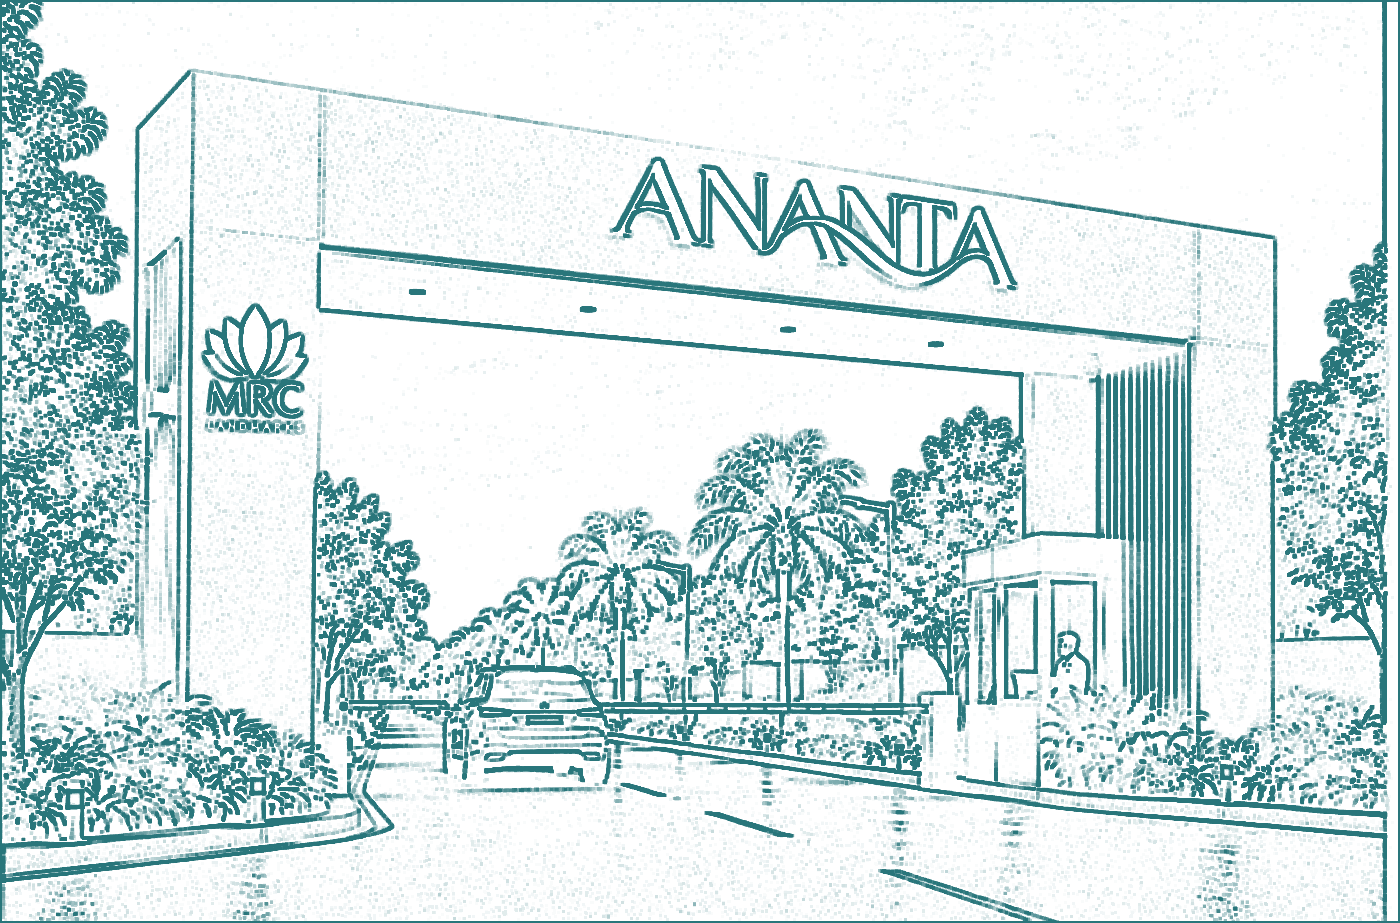
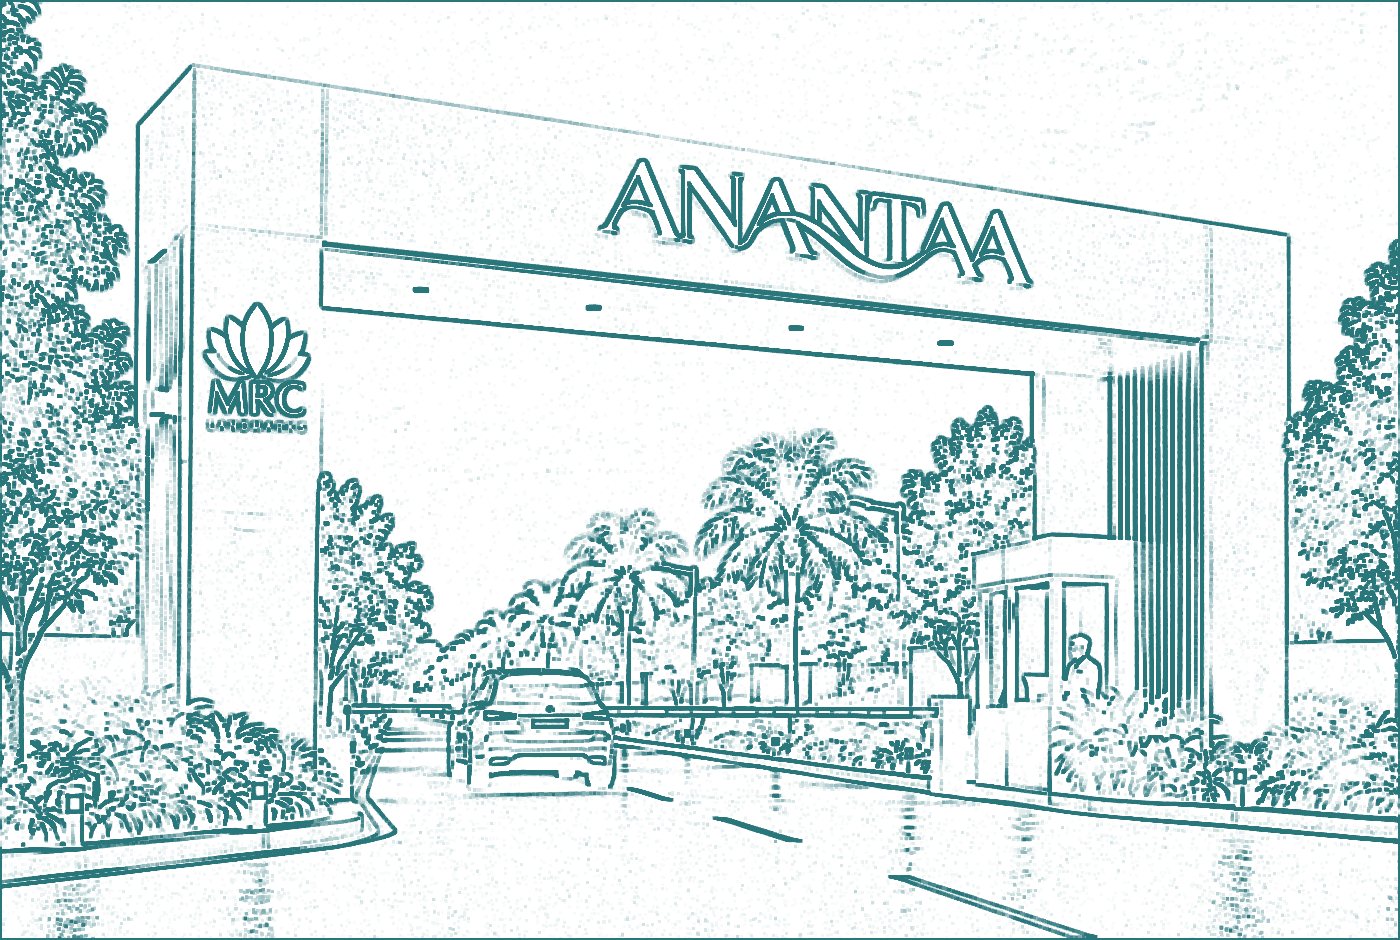
Launch section: gate render regenerated with the correct ANANTAA sign, real wordmark as title, frames span the page, label removed

diff --git a/mrc.css b/mrc.css
@@ -312,8 +312,7 @@ footer.site .about { font-size: .93rem; max-width: 42ch; margin-top: 1.2rem; }
   .hero-stage .dust, .hero-stage .rocks { display: none; }
   .pic.reveal { clip-path: none !important; }
   .rule.reveal { transform: none !important; }
-  .launch-stage .frame-inner, .launch-stage .gate-title span, .launch-stage .gate-tag, .launch-stage .gate-cta, .launch-stage .impression { opacity: 1 !important; transform: none !important; }
-  .launch-stage .gate-photo { clip-path: none !important; }
+  .launch-stage .frame-inner, .launch-stage .gate-title, .launch-stage .gate-tag, .launch-stage .gate-cta,   .launch-stage .gate-photo { clip-path: none !important; }
   .launch-stage .gate-lines { display: none; }
   html { scroll-behavior: auto; }
 }
@@ -456,38 +455,35 @@ footer.site .about { font-size: .93rem; max-width: 42ch; margin-top: 1.2rem; }
 .hero-trust-dot { width: 6px; height: 6px; border-radius: 50%; background: var(--teal-mid); display: inline-block; margin-right: .5rem; }
 
 /* ---- launch stage: nested frames, the gate builds itself ---- */
+.launch-stage > .wrap { max-width: none; padding-inline: clamp(.75rem, 1.5vw, 1.5rem); }
 .launch-stage .frame-outer {
-  background: var(--teal-deep); border-radius: calc(var(--r) + 10px); padding: clamp(.8rem, 2vw, 1.4rem);
+  background: var(--teal-deep); border-radius: calc(var(--r) + 10px); padding: clamp(.9rem, 2.2vw, 1.8rem);
   box-shadow: 0 30px 80px rgba(18,71,76,.28);
 }
 .launch-stage .frame-inner {
-  background: var(--bg); border-radius: var(--r); padding: clamp(1.4rem, 3.5vw, 3rem);
+  background: var(--bg); border-radius: var(--r); padding: clamp(1.2rem, 2.5vw, 2.4rem);
   display: flex; flex-direction: column; align-items: center; text-align: center;
   opacity: 0; transform: translateY(18px);
 }
-.launch-stage .gate { position: relative; width: 100%; max-width: 760px; aspect-ratio: 1537 / 1013; border-radius: var(--r-sm); overflow: hidden; background: var(--bg); }
+.launch-stage .gate { position: relative; width: 100%; max-width: 1240px; aspect-ratio: 3 / 2; border-radius: var(--r-sm); overflow: hidden; background: var(--bg); }
 .launch-stage .gate img { position: absolute; inset: 0; width: 100%; height: 100%; object-fit: cover; }
 .launch-stage .gate-lines { opacity: 0; }
 .launch-stage .gate-photo { clip-path: inset(100% 0 0 0); }
-.launch-stage .impression { position: absolute; right: .8rem; bottom: .8rem; top: auto; left: auto; font-size: .62rem; letter-spacing: .16em; text-transform: uppercase; color: rgba(255,255,255,.85); background: rgba(26,42,45,.55); padding: .35rem .7rem; border-radius: 999px; opacity: 0; }
-.launch-stage .gate-title { margin-top: 2rem; font-family: 'Cinzel', 'Instrument Sans', serif; font-weight: 600; font-size: clamp(2.4rem, 6vw, 4.4rem); letter-spacing: .14em; color: var(--teal-deep); line-height: 1; padding-left: .14em; display: flex; }
-.launch-stage .gate-title span { display: inline-block; opacity: 0; transform: translateY(.5em); }
+.launch-stage .gate-title { margin-top: 2.2rem; width: min(70%, 520px); height: auto; opacity: 0; transform: translateY(14px); }
 .launch-stage .gate-tag { margin-top: .9rem; font-size: .78rem; letter-spacing: .3em; text-transform: uppercase; color: var(--teal); font-weight: 600; opacity: 0; }
 .launch-stage .gate-cta { margin-top: 2rem; opacity: 0; transform: translateY(12px); }
 /* sequence: frames -> blueprint -> the render rises from the ground -> lights on -> name -> button */
 html.js .launch-stage .reveal.in .frame-inner { animation: riseIn .9s var(--ease) .35s forwards; }
 html.js .launch-stage .reveal.in .gate-lines { animation: fadeIn .8s ease .9s forwards; }
 html.js .launch-stage .reveal.in .gate-photo { animation: build 2s cubic-bezier(.6, 0, .2, 1) 1.5s forwards, lightsOn 1.2s ease 3.5s; }
-html.js .launch-stage .reveal.in .impression { animation: fadeIn .6s ease 3.6s forwards; }
-html.js .launch-stage .reveal.in .gate-title span { animation: riseIn .6s var(--ease) calc(3.4s + var(--i) * .08s) forwards; }
+html.js .launch-stage .reveal.in .gate-title { animation: riseIn .9s var(--ease) 3.4s forwards; }
 html.js .launch-stage .reveal.in .gate-tag { animation: fadeIn .8s ease 4.1s forwards; }
 html.js .launch-stage .reveal.in .gate-cta { animation: riseIn .7s var(--ease) 4.3s forwards; }
 @keyframes fadeIn { to { opacity: 1; } }
 @keyframes build { to { clip-path: inset(0 0 0 0); } }
 @keyframes lightsOn { 0%,100% { filter: brightness(1); } 40% { filter: brightness(1.22) saturate(1.15); } }
 /* without JS or with reduced motion: everything in its finished state */
-html:not(.js) .launch-stage .frame-inner, html:not(.js) .launch-stage .gate-title span, html:not(.js) .launch-stage .gate-tag, html:not(.js) .launch-stage .gate-cta, html:not(.js) .launch-stage .impression { opacity: 1; transform: none; }
-html:not(.js) .launch-stage .gate-photo { clip-path: none; }
+html:not(.js) .launch-stage .frame-inner, html:not(.js) .launch-stage .gate-title, html:not(.js) .launch-stage .gate-tag, html:not(.js) .launch-stage .gate-cta, html:not(.js) html:not(.js) .launch-stage .gate-photo { clip-path: none; }
 
 /* ---- floating WhatsApp ---- */
 .fab {

diff --git a/index.html b/index.html
@@ -11,7 +11,7 @@
 <link rel="apple-touch-icon" href="MRC LOGO LOTUS25 copy.pdf.png">
 <link rel="preconnect" href="https://fonts.googleapis.com">
 <link rel="preconnect" href="https://fonts.gstatic.com" crossorigin>
-<link rel="stylesheet" href="https://fonts.googleapis.com/css2?family=Instrument+Sans:wght@400;500;600;700&family=Inter:wght@400;500;600&family=Cinzel:wght@600&display=swap">
+<link rel="stylesheet" href="https://fonts.googleapis.com/css2?family=Instrument+Sans:wght@400;500;600;700&family=Inter:wght@400;500;600&display=swap">
 <link rel="stylesheet" href="mrc.css">
 <link rel="stylesheet" href="https://cdnjs.cloudflare.com/ajax/libs/leaflet/1.9.4/leaflet.min.css">
 </head>
@@ -82,11 +82,10 @@
       <div class="frame-outer reveal">
         <div class="frame-inner">
           <div class="gate">
-            <img class="gate-lines" src="anantaa-gate-lines.png" alt="" width="1400" height="923">
-            <img class="gate-photo" src="anantaa-gate.jpg" alt="ANANTAA entrance" width="1537" height="1013">
-            <span class="impression">Artist&rsquo;s impression</span>
+            <img class="gate-lines" src="anantaa-gate-lines.png" alt="" width="1400" height="940">
+            <img class="gate-photo" src="anantaa-gate.jpg" alt="ANANTAA entrance" width="1800" height="1208">
           </div>
-          <div class="gate-title" aria-label="ANANTAA"><span style="--i:0">A</span><span style="--i:1">N</span><span style="--i:2">A</span><span style="--i:3">N</span><span style="--i:4">T</span><span style="--i:5">A</span><span style="--i:6">A</span></div>
+          <img class="gate-title" src="anantaa-wordmark.png" alt="ANANTAA" width="1088" height="210">
           <div class="gate-tag">A Life Without Limits</div>
           <a class="btn btn-ink gate-cta" href="project-anantaa.html">Explore ANANTAA &rarr;</a>
         </div>

diff --git a/404.html b/404.html
@@ -11,7 +11,7 @@
 <link rel="apple-touch-icon" href="MRC LOGO LOTUS25 copy.pdf.png">
 <link rel="preconnect" href="https://fonts.googleapis.com">
 <link rel="preconnect" href="https://fonts.gstatic.com" crossorigin>
-<link rel="stylesheet" href="https://fonts.googleapis.com/css2?family=Instrument+Sans:wght@400;500;600;700&family=Inter:wght@400;500;600&family=Cinzel:wght@600&display=swap">
+<link rel="stylesheet" href="https://fonts.googleapis.com/css2?family=Instrument+Sans:wght@400;500;600;700&family=Inter:wght@400;500;600&display=swap">
 <link rel="stylesheet" href="mrc.css">
 </head>
 <body>

diff --git a/about.html b/about.html
@@ -11,7 +11,7 @@
 <link rel="apple-touch-icon" href="MRC LOGO LOTUS25 copy.pdf.png">
 <link rel="preconnect" href="https://fonts.googleapis.com">
 <link rel="preconnect" href="https://fonts.gstatic.com" crossorigin>
-<link rel="stylesheet" href="https://fonts.googleapis.com/css2?family=Instrument+Sans:wght@400;500;600;700&family=Inter:wght@400;500;600&family=Cinzel:wght@600&display=swap">
+<link rel="stylesheet" href="https://fonts.googleapis.com/css2?family=Instrument+Sans:wght@400;500;600;700&family=Inter:wght@400;500;600&display=swap">
 <link rel="stylesheet" href="mrc.css">
 </head>
 <body>

diff --git a/approach.html b/approach.html
@@ -11,7 +11,7 @@
 <link rel="apple-touch-icon" href="MRC LOGO LOTUS25 copy.pdf.png">
 <link rel="preconnect" href="https://fonts.googleapis.com">
 <link rel="preconnect" href="https://fonts.gstatic.com" crossorigin>
-<link rel="stylesheet" href="https://fonts.googleapis.com/css2?family=Instrument+Sans:wght@400;500;600;700&family=Inter:wght@400;500;600&family=Cinzel:wght@600&display=swap">
+<link rel="stylesheet" href="https://fonts.googleapis.com/css2?family=Instrument+Sans:wght@400;500;600;700&family=Inter:wght@400;500;600&display=swap">
 <link rel="stylesheet" href="mrc.css">
 </head>
 <body>

diff --git a/channel-partners.html b/channel-partners.html
@@ -11,7 +11,7 @@
 <link rel="apple-touch-icon" href="MRC LOGO LOTUS25 copy.pdf.png">
 <link rel="preconnect" href="https://fonts.googleapis.com">
 <link rel="preconnect" href="https://fonts.gstatic.com" crossorigin>
-<link rel="stylesheet" href="https://fonts.googleapis.com/css2?family=Instrument+Sans:wght@400;500;600;700&family=Inter:wght@400;500;600&family=Cinzel:wght@600&display=swap">
+<link rel="stylesheet" href="https://fonts.googleapis.com/css2?family=Instrument+Sans:wght@400;500;600;700&family=Inter:wght@400;500;600&display=swap">
 <link rel="stylesheet" href="mrc.css">
 </head>
 <body>

diff --git a/contact.html b/contact.html
@@ -11,7 +11,7 @@
 <link rel="apple-touch-icon" href="MRC LOGO LOTUS25 copy.pdf.png">
 <link rel="preconnect" href="https://fonts.googleapis.com">
 <link rel="preconnect" href="https://fonts.gstatic.com" crossorigin>
-<link rel="stylesheet" href="https://fonts.googleapis.com/css2?family=Instrument+Sans:wght@400;500;600;700&family=Inter:wght@400;500;600&family=Cinzel:wght@600&display=swap">
+<link rel="stylesheet" href="https://fonts.googleapis.com/css2?family=Instrument+Sans:wght@400;500;600;700&family=Inter:wght@400;500;600&display=swap">
 <link rel="stylesheet" href="mrc.css">
 </head>
 <body>

diff --git a/insight-dtcp-rera.html b/insight-dtcp-rera.html
@@ -11,7 +11,7 @@
 <link rel="apple-touch-icon" href="MRC LOGO LOTUS25 copy.pdf.png">
 <link rel="preconnect" href="https://fonts.googleapis.com">
 <link rel="preconnect" href="https://fonts.gstatic.com" crossorigin>
-<link rel="stylesheet" href="https://fonts.googleapis.com/css2?family=Instrument+Sans:wght@400;500;600;700&family=Inter:wght@400;500;600&family=Cinzel:wght@600&display=swap">
+<link rel="stylesheet" href="https://fonts.googleapis.com/css2?family=Instrument+Sans:wght@400;500;600;700&family=Inter:wght@400;500;600&display=swap">
 <link rel="stylesheet" href="mrc.css">
 </head>
 <body>

diff --git a/insight-master-plan.html b/insight-master-plan.html
@@ -11,7 +11,7 @@
 <link rel="apple-touch-icon" href="MRC LOGO LOTUS25 copy.pdf.png">
 <link rel="preconnect" href="https://fonts.googleapis.com">
 <link rel="preconnect" href="https://fonts.gstatic.com" crossorigin>
-<link rel="stylesheet" href="https://fonts.googleapis.com/css2?family=Instrument+Sans:wght@400;500;600;700&family=Inter:wght@400;500;600&family=Cinzel:wght@600&display=swap">
+<link rel="stylesheet" href="https://fonts.googleapis.com/css2?family=Instrument+Sans:wght@400;500;600;700&family=Inter:wght@400;500;600&display=swap">
 <link rel="stylesheet" href="mrc.css">
 </head>
 <body>

diff --git a/insight-verify-before-buying.html b/insight-verify-before-buying.html
@@ -11,7 +11,7 @@
 <link rel="apple-touch-icon" href="MRC LOGO LOTUS25 copy.pdf.png">
 <link rel="preconnect" href="https://fonts.googleapis.com">
 <link rel="preconnect" href="https://fonts.gstatic.com" crossorigin>
-<link rel="stylesheet" href="https://fonts.googleapis.com/css2?family=Instrument+Sans:wght@400;500;600;700&family=Inter:wght@400;500;600&family=Cinzel:wght@600&display=swap">
+<link rel="stylesheet" href="https://fonts.googleapis.com/css2?family=Instrument+Sans:wght@400;500;600;700&family=Inter:wght@400;500;600&display=swap">
 <link rel="stylesheet" href="mrc.css">
 </head>
 <body>

diff --git a/insights.html b/insights.html
@@ -11,7 +11,7 @@
 <link rel="apple-touch-icon" href="MRC LOGO LOTUS25 copy.pdf.png">
 <link rel="preconnect" href="https://fonts.googleapis.com">
 <link rel="preconnect" href="https://fonts.gstatic.com" crossorigin>
-<link rel="stylesheet" href="https://fonts.googleapis.com/css2?family=Instrument+Sans:wght@400;500;600;700&family=Inter:wght@400;500;600&family=Cinzel:wght@600&display=swap">
+<link rel="stylesheet" href="https://fonts.googleapis.com/css2?family=Instrument+Sans:wght@400;500;600;700&family=Inter:wght@400;500;600&display=swap">
 <link rel="stylesheet" href="mrc.css">
 </head>
 <body>

diff --git a/locations.html b/locations.html
@@ -11,7 +11,7 @@
 <link rel="apple-touch-icon" href="MRC LOGO LOTUS25 copy.pdf.png">
 <link rel="preconnect" href="https://fonts.googleapis.com">
 <link rel="preconnect" href="https://fonts.gstatic.com" crossorigin>
-<link rel="stylesheet" href="https://fonts.googleapis.com/css2?family=Instrument+Sans:wght@400;500;600;700&family=Inter:wght@400;500;600&family=Cinzel:wght@600&display=swap">
+<link rel="stylesheet" href="https://fonts.googleapis.com/css2?family=Instrument+Sans:wght@400;500;600;700&family=Inter:wght@400;500;600&display=swap">
 <link rel="stylesheet" href="mrc.css">
 </head>
 <body>
